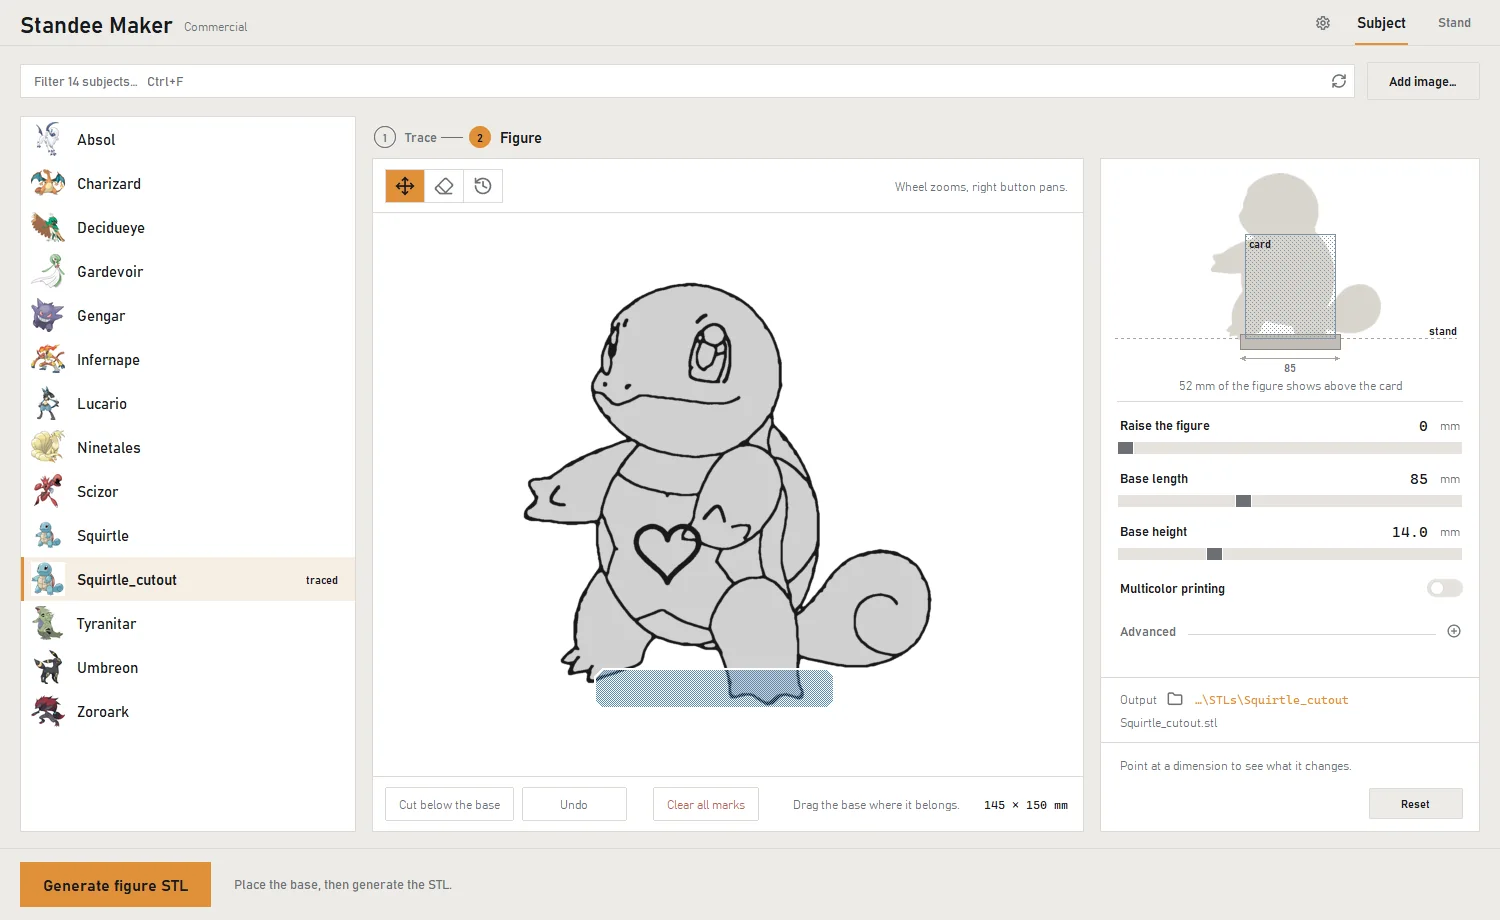
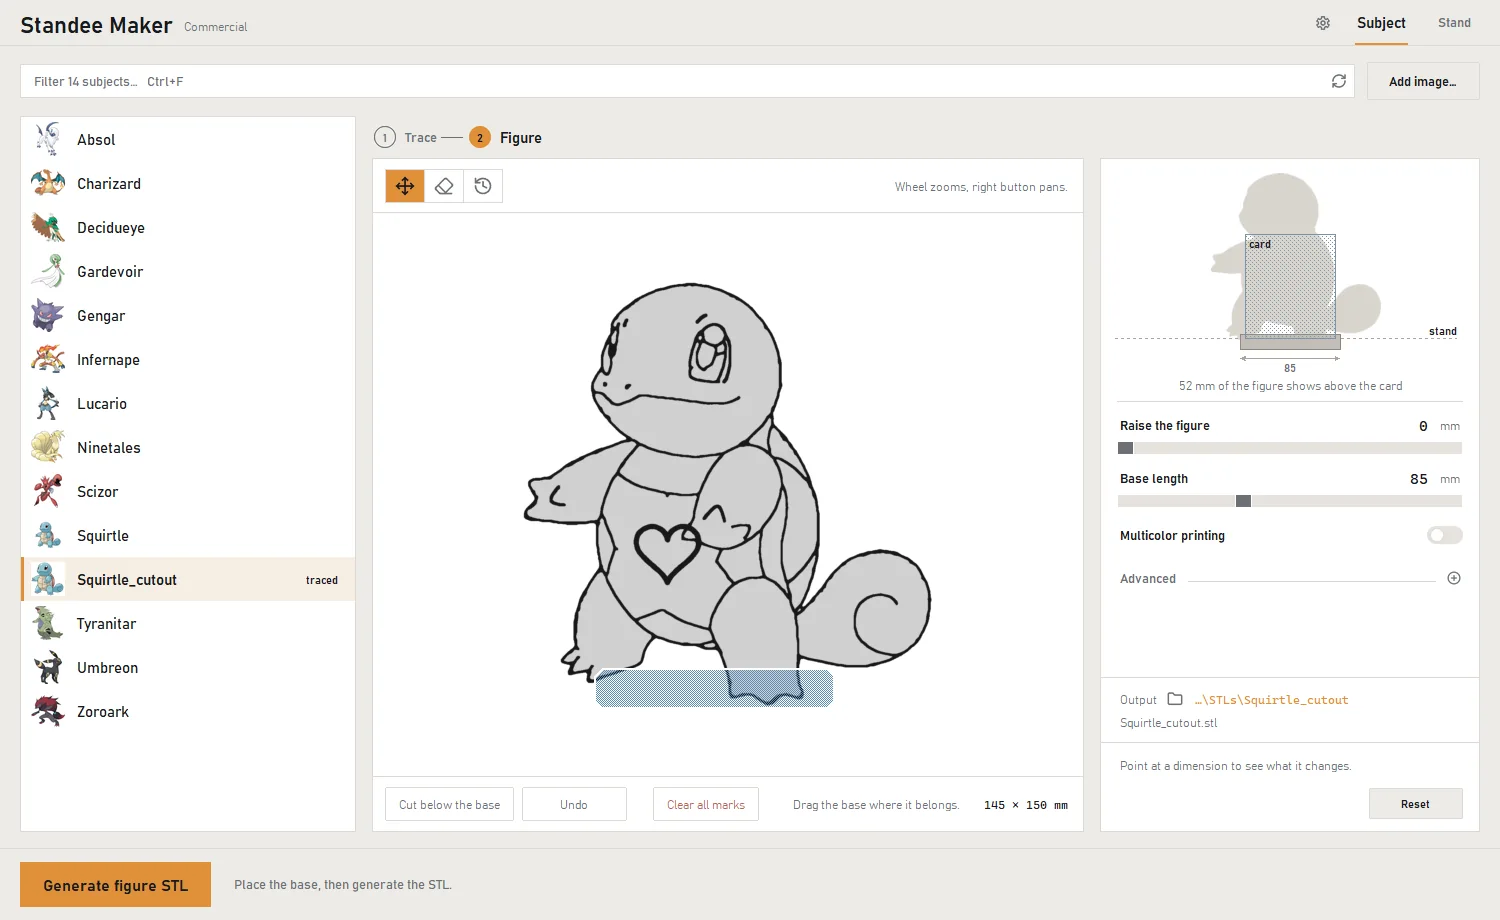
Sito da PNG-Stand-Maker @ 39f1edf

Changed region(s): [[0.736, 0.5478, 0.9813, 0.7]]

diff --git a/main.js b/main.js
@@ -402,9 +402,11 @@
           "a few millimetres, so the feet stick out below it."],
         [[1108, 165, 362, 230], "The drawing to scale answers what the numbers leave out: <b>how " +
           "much of the figure stands above the card</b> in its toploader. 52 mm here."],
-        [[1108, 412, 362, 160], "<b>Raise the figure</b> lifts it above the card, for short and wide " +
-          "subjects the card would hide. <b>Base length</b> should span the two outermost feet. " +
-          "<b>Base height</b> is 10 mm inside the slot plus what stays in sight."]
+        [[1108, 412, 362, 105], "<b>Raise the figure</b> lifts it above the card, for short and wide " +
+          "subjects the card would hide. <b>Base length</b> should span the two outermost feet."],
+        [[1108, 566, 362, 26], "<b>Advanced</b>: how thick the silhouette and the line art come " +
+          "out, and <b>Base height</b>, 10 mm inside the slot plus what stays in sight. Set once, " +
+          "then left alone."]
       ] },
 
     { ch: 3, img: "figure-cut", size: SHOT,
@@ -431,7 +433,7 @@
           "open its folder."],
         [[1108, 688, 362, 46], "Every subject gets a folder of its own, and the stand made for it " +
           "lands in the same one. The gear at the top lets you choose where models go."],
-        [[1108, 574, 362, 30], "<b>Multicolor printing</b>, off unless you switch it on: two .3mf " +
+        [[1108, 522, 362, 28], "<b>Multicolor printing</b>, off unless you switch it on: two .3mf " +
           "files come out as well, with the line art as a second part. Open <b>_Bambu-Orca</b> in " +
           "Bambu Studio or OrcaSlicer, <b>_Prusa</b> in PrusaSlicer. With a single nozzle, Output " +
           "then shows the height at which to change filament."],
@@ -507,7 +509,7 @@
   // Come TURN_V: i riquadri di TOUR sono in pixel delle schermate, e una
   // schermata vecchia ancora nella cache sotto i riquadri nuovi li mette nel
   // posto sbagliato. Si alza a ogni `make_tutorial.py`.
-  var TOUR_V = "?v=5";
+  var TOUR_V = "?v=6";
   function src(step) { return step.img ? "assets/tutorial/" + step.img + ".webp" + TOUR_V : null; }
 
   // la barra dei capitoli: un segmento per passo, e il capitolo si preme
